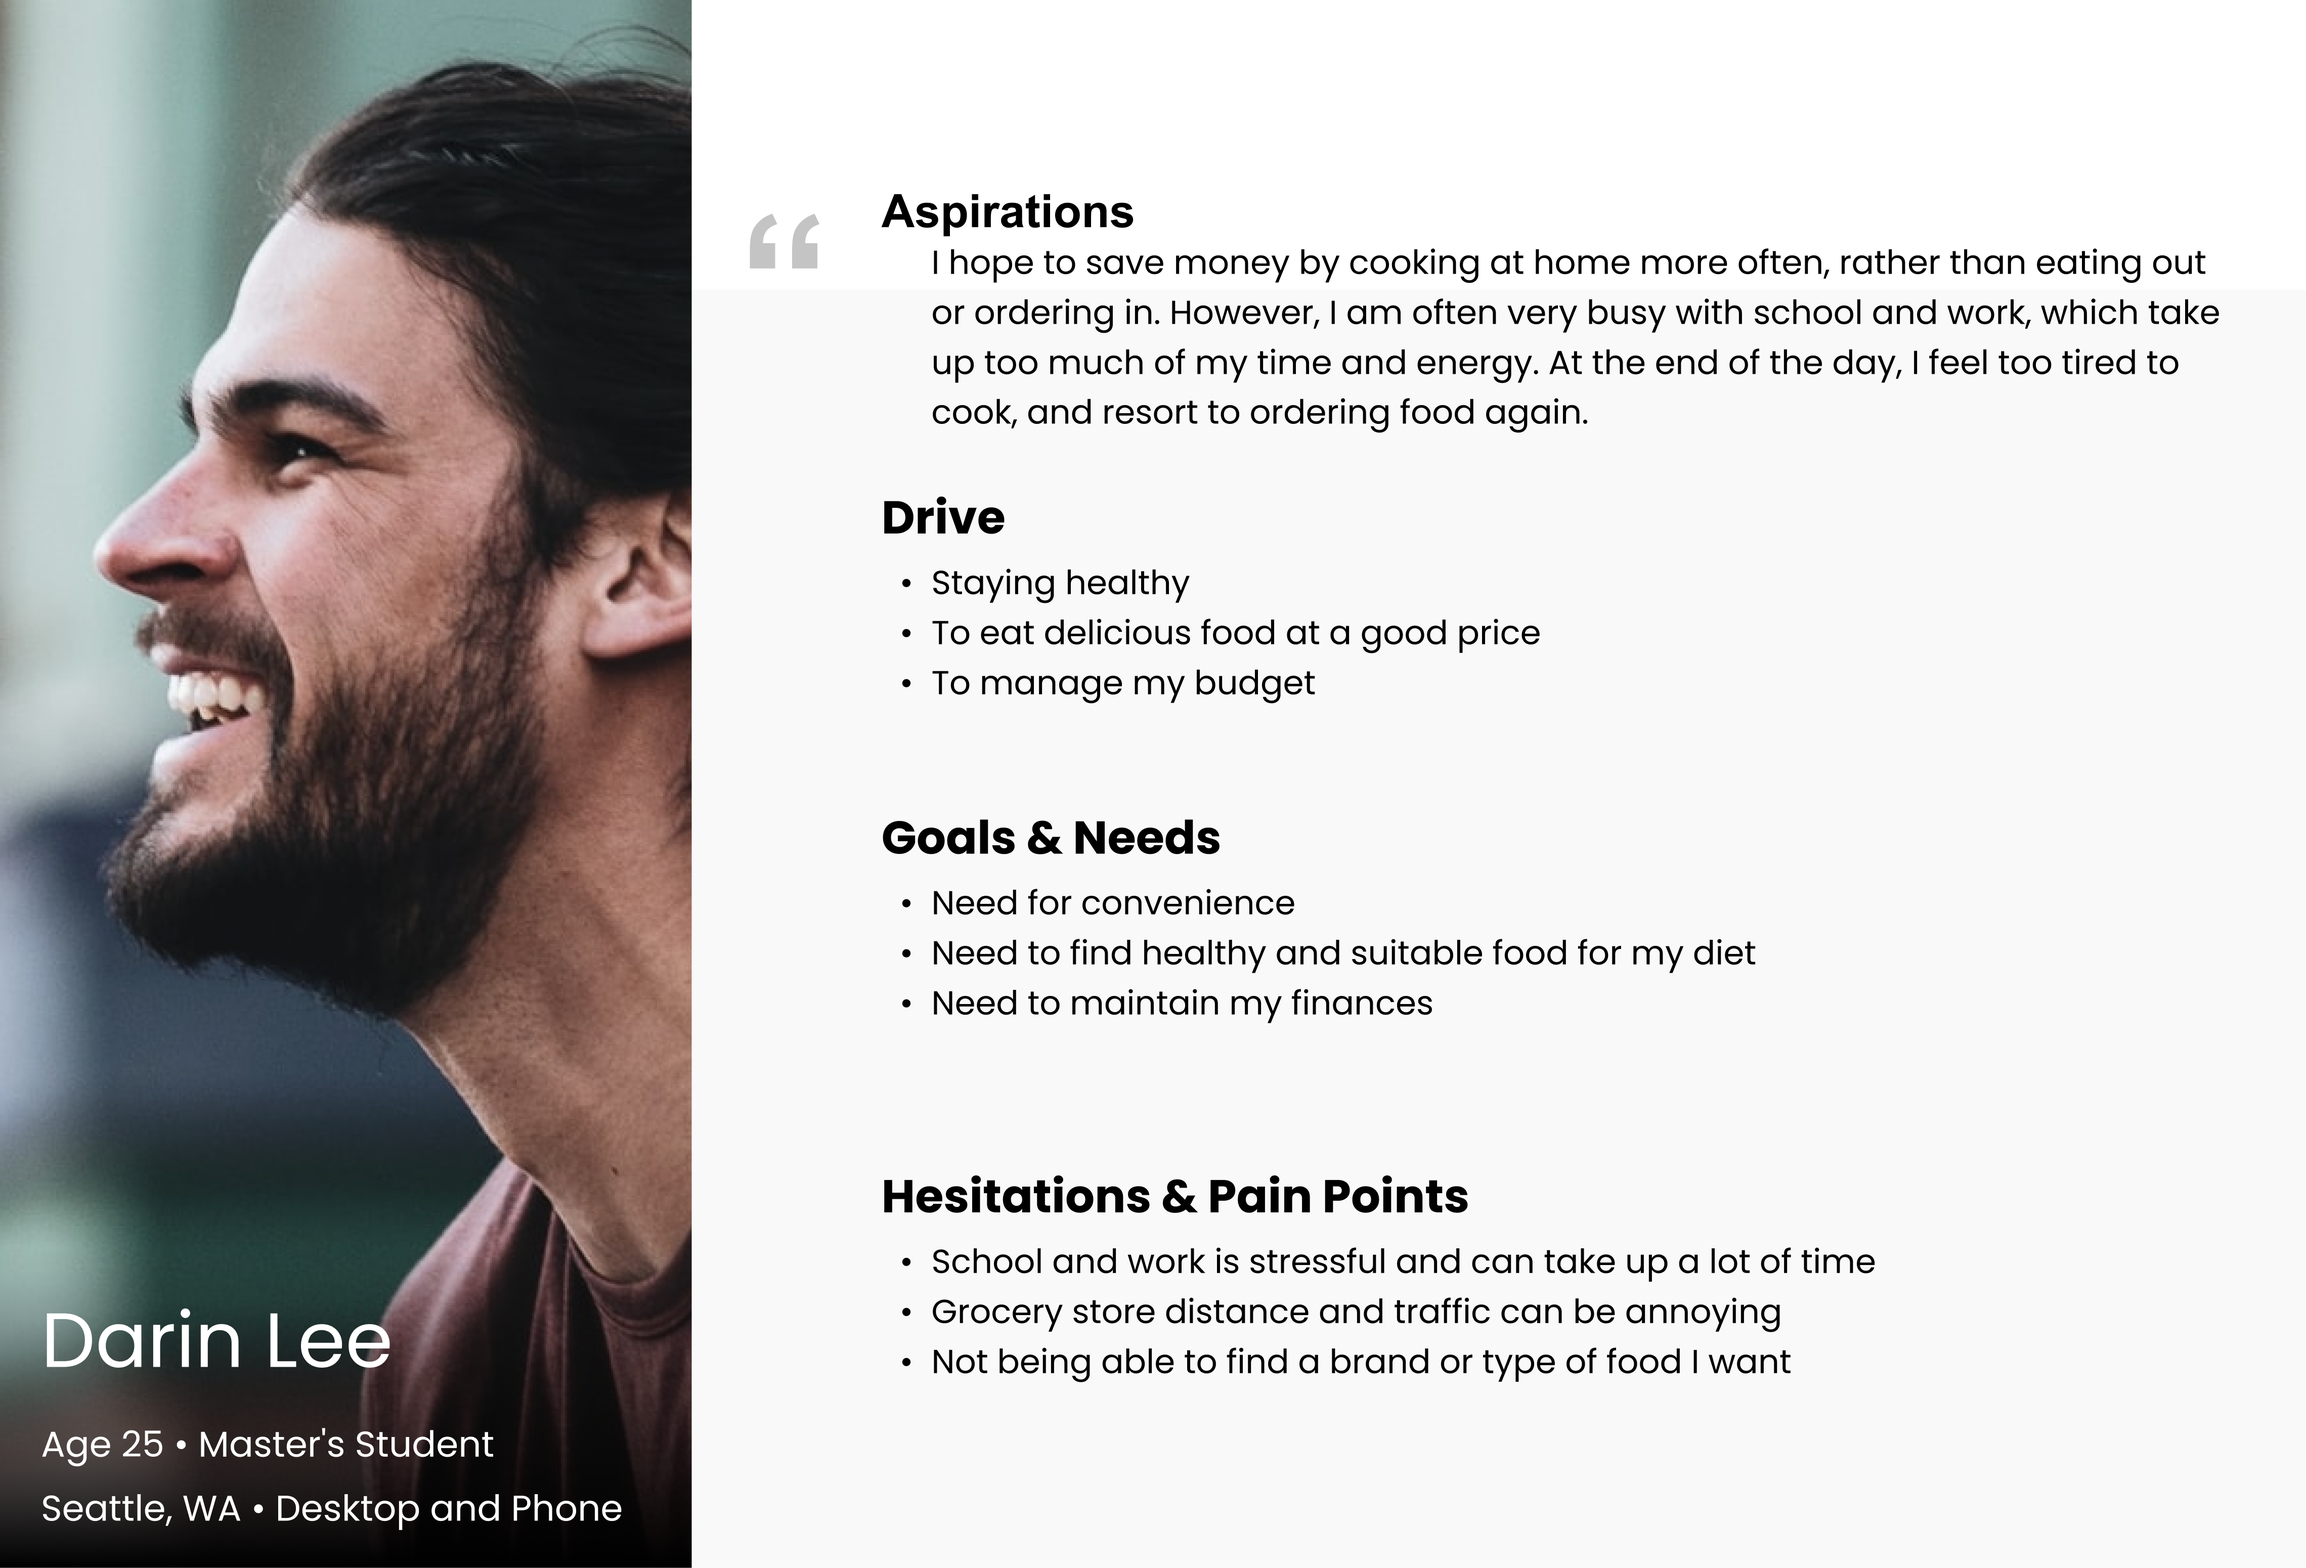
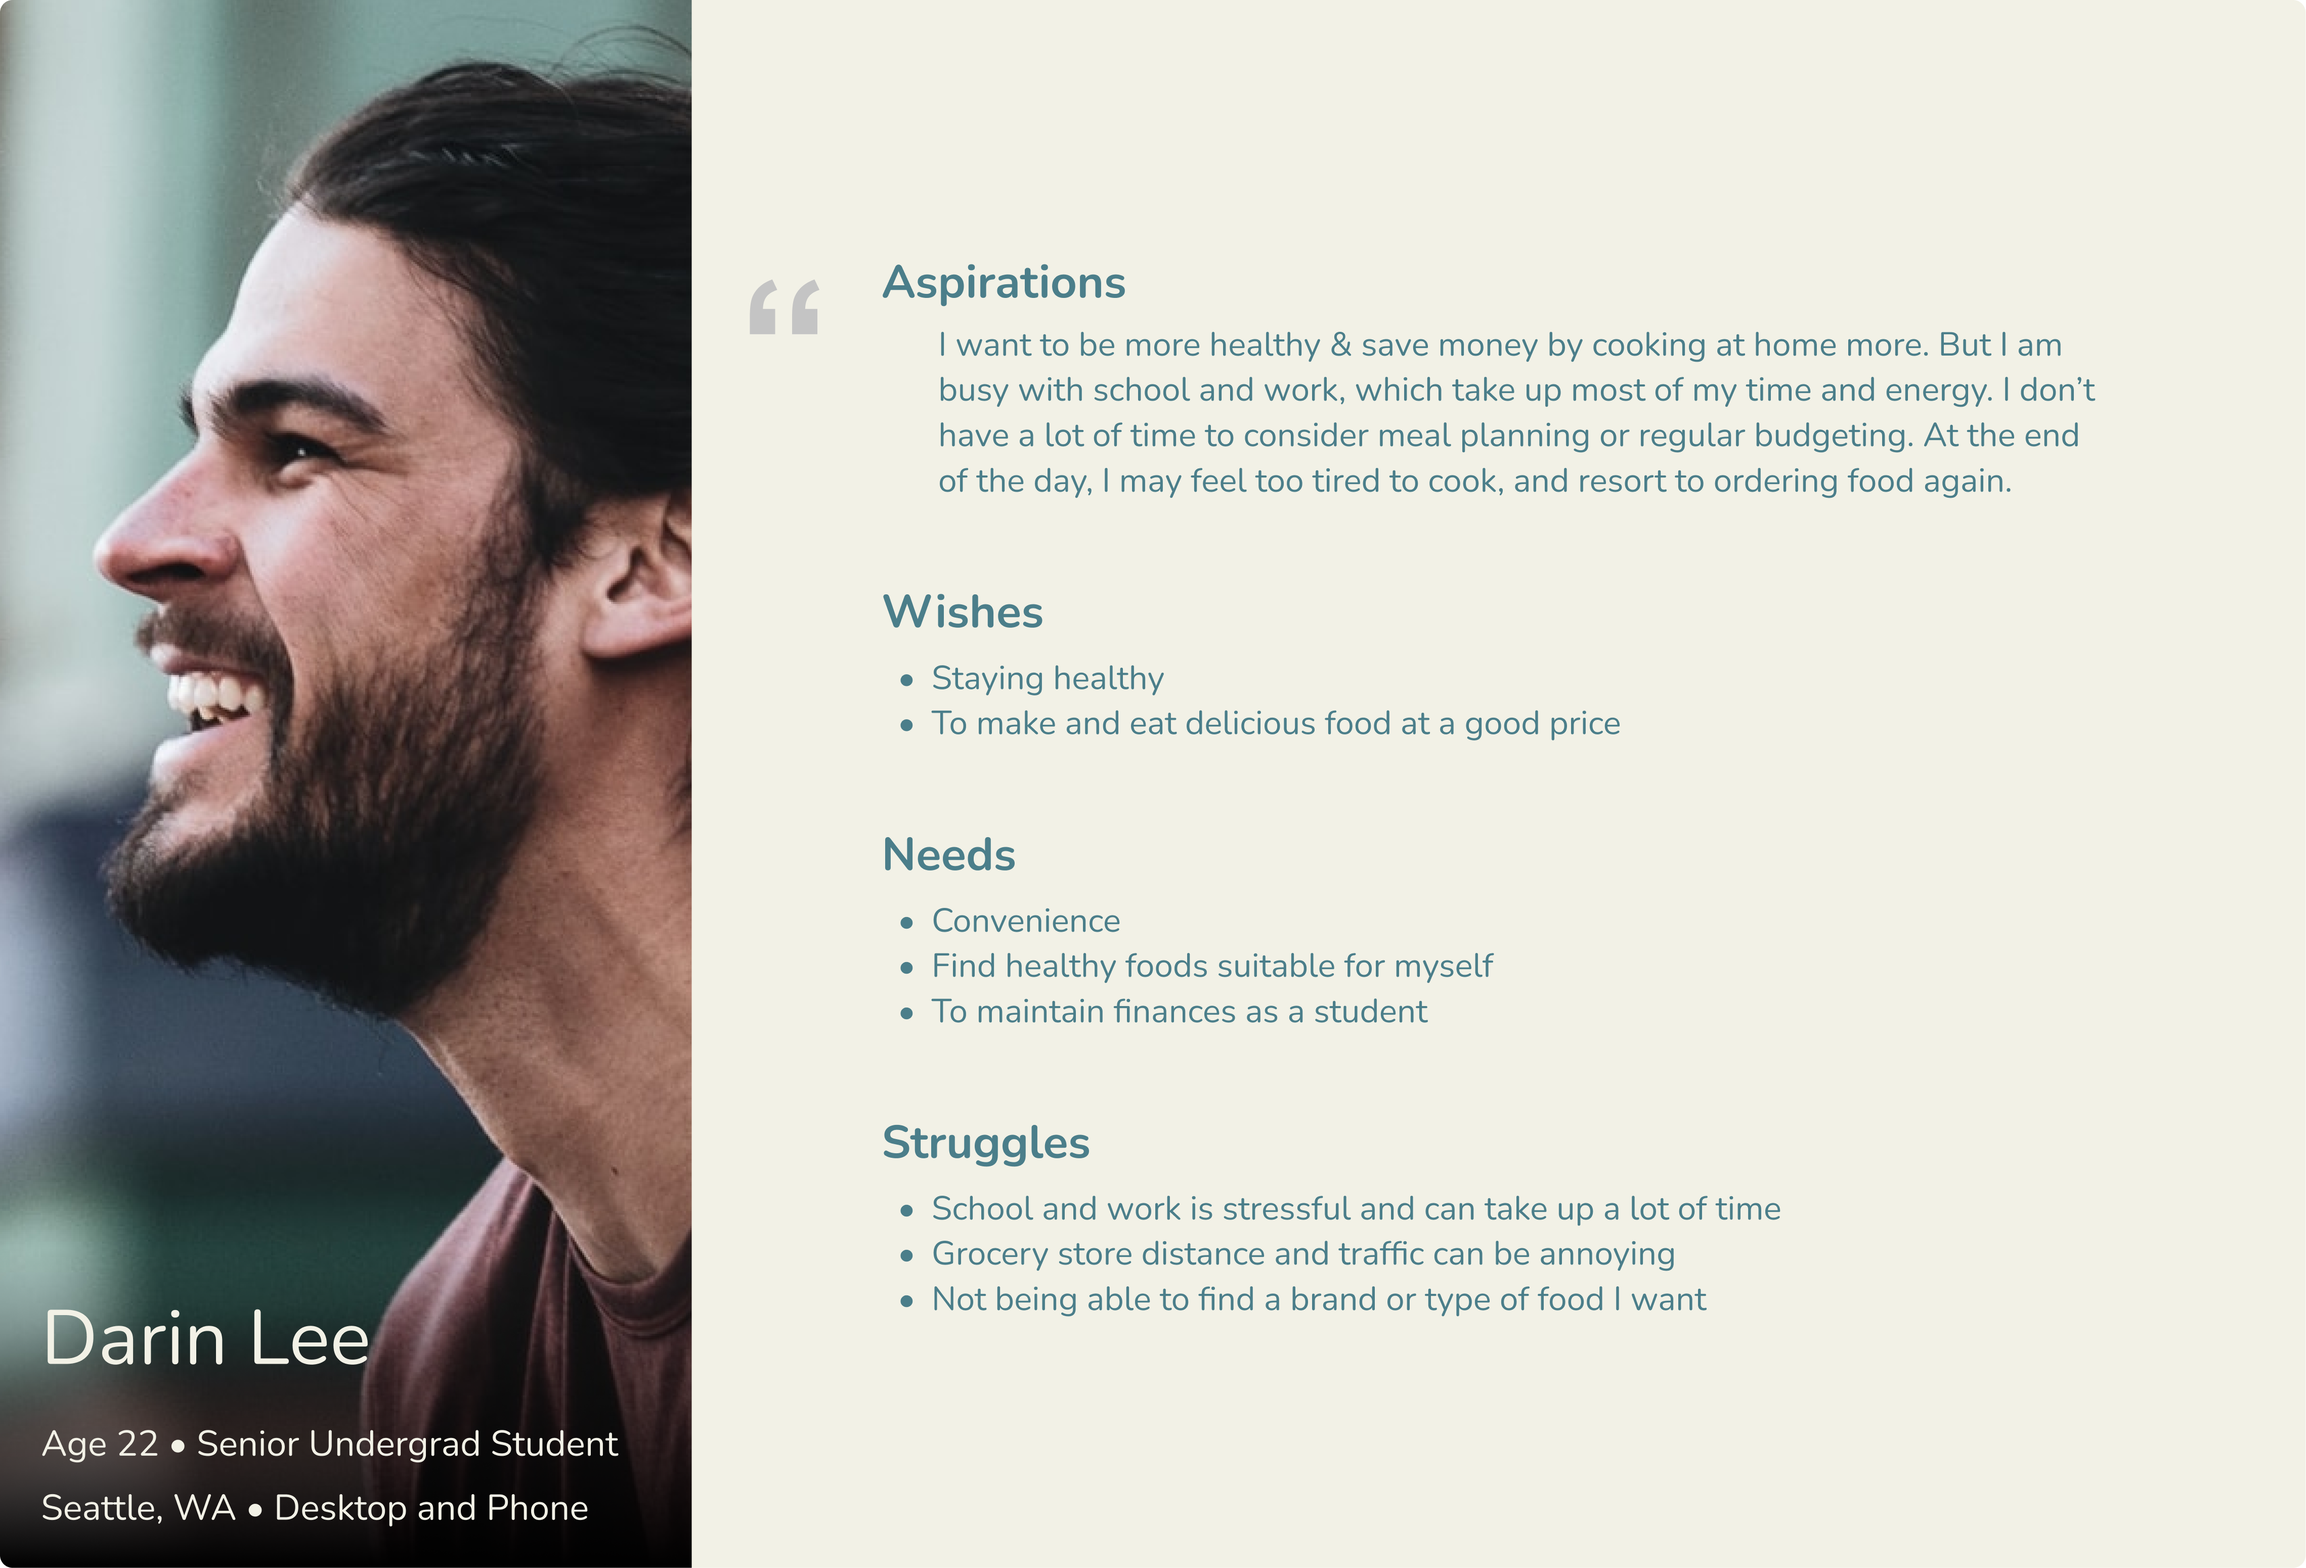
updated IA, user persona, and empathy map visuals

diff --git a/assets/projectPages/groovyAssets/groovy.html b/assets/projectPages/groovyAssets/groovy.html
@@ -18,7 +18,7 @@
       rel="icon"
       type="image/png"
       sizes="32x32"
-      href="./groovyicons/tabIcon.png"
+      href="../../icons/tabIcon.png"
     />
 
     <title> Ann C. Tseng | Groovy Groceries </title>
@@ -94,13 +94,13 @@
 
     <section class="research">
       <h4>Survey Research</h4>
-      <p class="research_intro_centered">I conducted user surveys to find out:</p>
+      <p class="research_intro_centered" style="margin-top: 3rem; display: block; text-align: center;">I conducted user surveys to find out:</p>
       <ol>
-        <li>
-          Preferences and barriers that can impact a user's grocery shopping experience.
+        <li style="margin-left: 3rem; display: block; text-align: left;">
+          1. references and barriers that can impact a user's grocery shopping experience.
         </li>
-        <li>
-          How a user may go about meal planning and budgeting.
+        <li style="margin-left: 3rem; display: block; text-align: left;">
+          2. How a user may go about meal planning and budgeting.
         </li>
       </ol>
 
@@ -148,7 +148,7 @@
       <!-- Empathy Map -->
       <h4 class="empathy_map_title">Empathy Map</h4>
       <p class="empathy_map_p" style="display: block; text-align: center;">
-        I created a empathy map to represent our users' needs, wants, actions, and thought processes:
+        Our users' needs, wants, actions, and thought processes
       </p>
       <img class="empathy_map" src="./groovyimages/Empathy Map.png" alt="Groovy Groceries Empathy Map">
 
@@ -156,7 +156,7 @@
       <!-- User Persona -->
       <h4 class="user_persona_title">User Persona</h4>
       <p class="user_persona_p" style="display: block; text-align: center;">
-        Extending from my empathy map, I made a user persona to better pinpoint our product's users and their needs:
+        I specified our users' various aspiration, wishes, needs, and struggles
       </p>
       <img class="user_persona" src="./groovyimages/User Persona.png" alt="Groovy Groceries User Persona">
 
@@ -173,49 +173,48 @@
       <h4 class="lowfi_title">
         Low-fidelity Wireframes
       </h4>
-      <p class="lowfi_p" style="display: block; text-align: center;">
+      <!-- <p class="lowfi_p" style="display: block; text-align: center;">
         Using the information architecture,
-        I created low-fidelity wireframes that translates <br>
+        I created low-fidelity wireframes to translates <br>
         our user experience flows into Groovy Groceries' early design concepts.
-      </p>
-      <img class="low_fidelity_wireframes" src="./groovyimages/lowfiWireframeFlows-compressed.png" alt="Groovy Groceries Low Fidelity Wireframe Flows">
+      </p> -->
+      <img class="low_fidelity_wireframes" src="./groovyimages/LowfiFlow.png" alt="Groovy Groceries Low Fidelity Wireframe Flows">
     </section>
 
     <!-- First Iteration of High Fidelity Wireframes -->
     <section class="first_highfi">
       <h4 class="first_highfi_title">
-        Initial High-fidelity Wireframes
+        First Round of Mid to High-fidlity Iterations
       </h4>
-      <p class="highfi_p" style="display: block; text-align: center;">
-        From the lowfi, I created the first round of iterations of high-fidelity wireframes. <br>
-        I iterated on the user flow, element interactions, and visual UI elements. <br><br>
-        Below are 4 main screens from this round of iterations: 
-      </p>
       <img class="initialHighfiImg" src="./groovyimages/initialhighfi/InitialHighFi.png" alt="Groovy Groceries Initial Highfi Wireframes">
+      <p class="highfi_p" style="display: block; text-align: center;">
+        During this round of iterative design, the designs lacked visual cohesion, appeal, and sufficient user feedback.<br>
+        I was unsatisfied with them, and so I took some time to study more on User-Experience Interface design, and gain critique on <br>
+        the designs from UX industry mentors.
+      </p>
     </section>
 
     <!-- Reiteration of Initial High-fi Wireframes -->
     <section class="reiteration_highfi">
       <h4>
-        Reiteration on Design
+        Second Round of Iterations
       </h4>
       <p style="display: block; text-align: center;">
-        After taking some time for personal design study, speaking with UX mentors, and rethinking my design...
-        <br>I came back to reiterate on three main flows: <br>
+        After taking some time for study and rethinking the design -
+        <br>I came back to reiterate on three main sections:
         shopping, meal planning, and budgeting. <br><br>
 
-        For this new round of iterations - <br>
-        I simplified our palette to two colours, and created a simple & more consistent typography ramp. <br>
-        I reiterated the user-flow and UI elements to further improve user experience and visual cohesion.
+        <!-- I simplified our palette to two colours, and created a simple & more consistent typography ramp. <br>
+        I reiterated the user-flow and UI elements to further improve user experience and visual cohesion. -->
       </p>
       
-      <div class="font_and_colour_main_div">
+      <!-- <div class="font_and_colour_main_div">
         <div class="font_and_colour_left_div">
           <img class="colour_pallet" src="./groovyimages/Design Font + Colour/Colour Palette.png" alt="Groovy Groceries Colour Pallet">
         </div>
         <div class="font_and_colour_right_div">
           <img class="font_ramp" src="./groovyimages/Design Font + Colour/Typography Ramp.png" alt="Groovy Groceries Typography Ramp">
-        </div>
+        </div> -->
       </div>
 
       <!-- Grocery Shopping Revised -->

diff --git a/assets/projectPages/groovyAssets/groovyjs/app.js b/assets/projectPages/groovyAssets/groovyjs/app.js
@@ -17,23 +17,23 @@ burger.addEventListener("click", () => {
 });
 
 // Slide Show
-let slideIndex = [1,1];
-let slideId = ["mySlides1", "mySlides2", "mySlides3"]
-showSlides(1, 0);
-showSlides(1, 1);
-showSlides(0, 2);
+// let slideIndex = [1,1];
+// let slideId = ["mySlides1", "mySlides2", "mySlides3"]
+// showSlides(1, 0);
+// showSlides(1, 1);
+// showSlides(0, 2);
 
-function plusSlides(n, no) {
-  showSlides(slideIndex[no] += n, no);
-}
+// function plusSlides(n, no) {
+//   showSlides(slideIndex[no] += n, no);
+// }
 
-function showSlides(n, no) {
-  let i;
-  let x = document.getElementsByClassName(slideId[no]);
-  if (n > x.length) {slideIndex[no] = 1}    
-  if (n < 1) {slideIndex[no] = x.length}
-  for (i = 0; i < x.length; i++) {
-     x[i].style.display = "none";  
-  }
-  x[slideIndex[no]-1].style.display = "block";  
-}
+// function showSlides(n, no) {
+//   let i;
+//   let x = document.getElementsByClassName(slideId[no]);
+//   if (n > x.length) {slideIndex[no] = 1}    
+//   if (n < 1) {slideIndex[no] = x.length}
+//   for (i = 0; i < x.length; i++) {
+//      x[i].style.display = "none";  
+//   }
+//   x[slideIndex[no]-1].style.display = "block";  
+// }

diff --git a/assets/projectPages/groovyAssets/groovycss/styles.css b/assets/projectPages/groovyAssets/groovycss/styles.css
@@ -291,6 +291,7 @@ nav ul li {
 }
 
 .low_fidelity_wireframes{
+    margin-top: 3rem;
     width: 75%;
 }
 
@@ -307,7 +308,7 @@ nav ul li {
 .Column {
     display: table-cell;
 
-    background-color: #ffffff;
+    background-color: #f2f1e5;
 
     border-radius: 6px;
     
@@ -315,6 +316,8 @@ nav ul li {
     vertical-align: middle;
     padding: 0.5rem;
     box-shadow: 0 3px 5px rgba(40, 18, 18, 0.1);
+
+    color: #4b7e8a;
 }
 
 .empathy_map{
